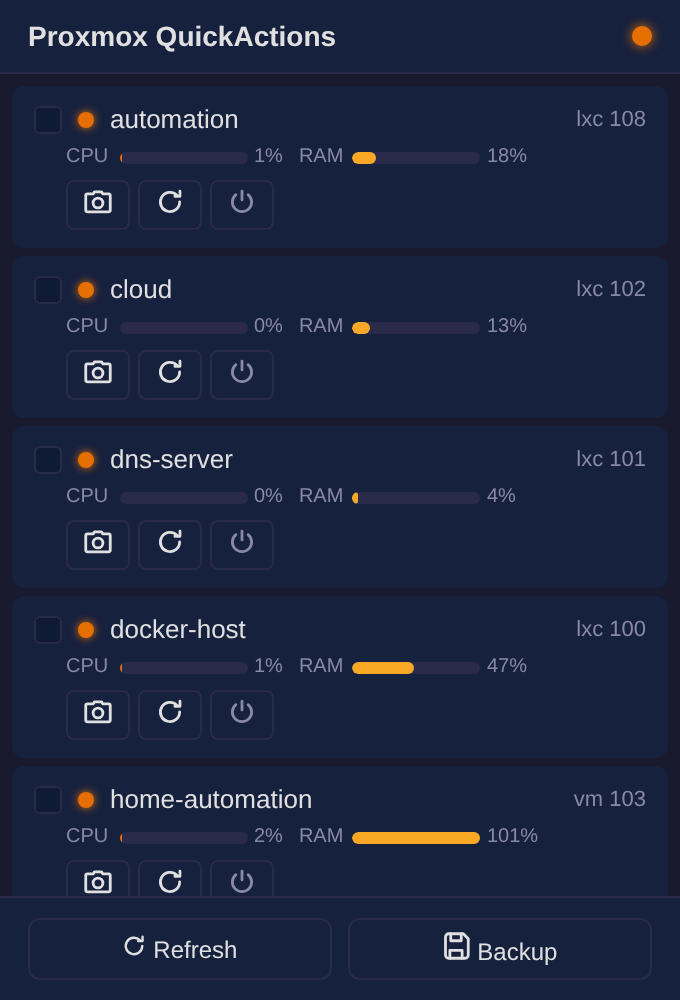
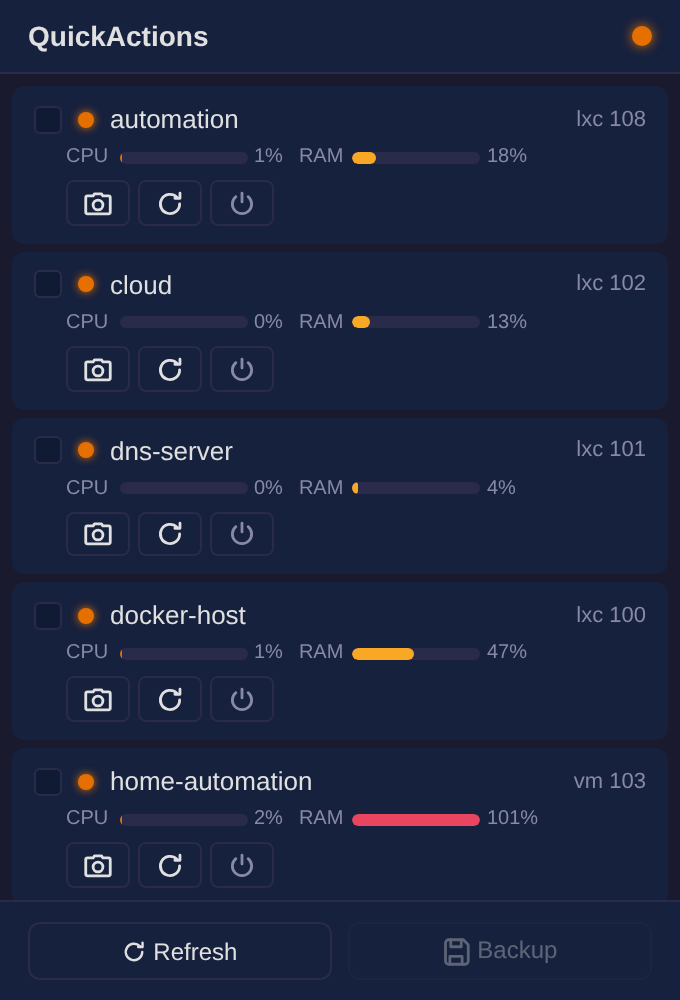
Color RAM bar red when usage exceeds 100% (e.g. ballooning over assigned limit)
- .bar-fill.over class uses --danger color
- Bar width clamped to 100% (no overflow past the track), text still
  shows the real value (101%)
- Applied in both buildBarGroup (initial render) and updateBarGroup
  (auto-refresh in-place update)
- Re-rendered all three theme screenshots via the mock harness
  (now theme-selectable via ?theme= parameter)

diff --git a/popup.js b/popup.js
@@ -125,8 +125,9 @@ function buildBarGroup(label, pct, fillClass) {
   const track = document.createElement("div");
   track.className = "bar-track";
   const fill = document.createElement("div");
-  fill.className = `bar-fill ${fillClass}`;
-  fill.style.width = `${pct}%`;
+  // >100% (z.B. RAM-Ballooning über zugewiesene Grenze): rot markieren, Breite klemmen
+  fill.className = `bar-fill ${fillClass}${pct > 100 ? " over" : ""}`;
+  fill.style.width = `${Math.min(pct, 100)}%`;
   track.appendChild(fill);
 
   const text = document.createElement("span");
@@ -299,7 +300,14 @@ function updateBarGroup(group, pct, na) {
     text.textContent = "—";
   } else {
     fill.className = fill.className.replace(" na", "");
-    fill.style.width = `${pct}%`;
+    // >100%: rot markieren (" over"), Breite auf 100% klemmen — Text zeigt echten Wert
+    if (pct > 100) {
+      if (!fill.classList.contains("over")) fill.classList.add("over");
+      fill.style.width = "100%";
+    } else {
+      fill.classList.remove("over");
+      fill.style.width = `${pct}%`;
+    }
     text.textContent = `${pct}%`;
   }
 }

diff --git a/.screenshot-mock/popup-mock.html b/.screenshot-mock/popup-mock.html
@@ -6,7 +6,7 @@
   <link rel="stylesheet" href="../popup.css">
   <title>QuickActions</title>
 </head>
-<body class="theme-nord">
+<body>
   <!-- Header -->
   <div id="header">
     <span id="title">QuickActions</span>
@@ -47,10 +47,11 @@
       runtime: {
         sendMessage: (message) => {
           if (message.action === "getConfig") {
+            const theme = new URLSearchParams(location.search).get("theme") || "nord";
             return Promise.resolve({
               success: true,
               data: {
-                theme: "nord",
+                theme,
                 refreshInterval: 0,
                 sortBy: "name",
                 statusFirst: true,

diff --git a/popup.css b/popup.css
@@ -291,6 +291,11 @@ body {
   background: var(--warning);
 }
 
+/* Über 100% (z.B. RAM über zugewiesener Grenze) — Kennzeichnung */
+.bar-fill.over {
+  background: var(--danger);
+}
+
 .bar-fill.na {
   background: var(--border);
   width: 100% !important;
